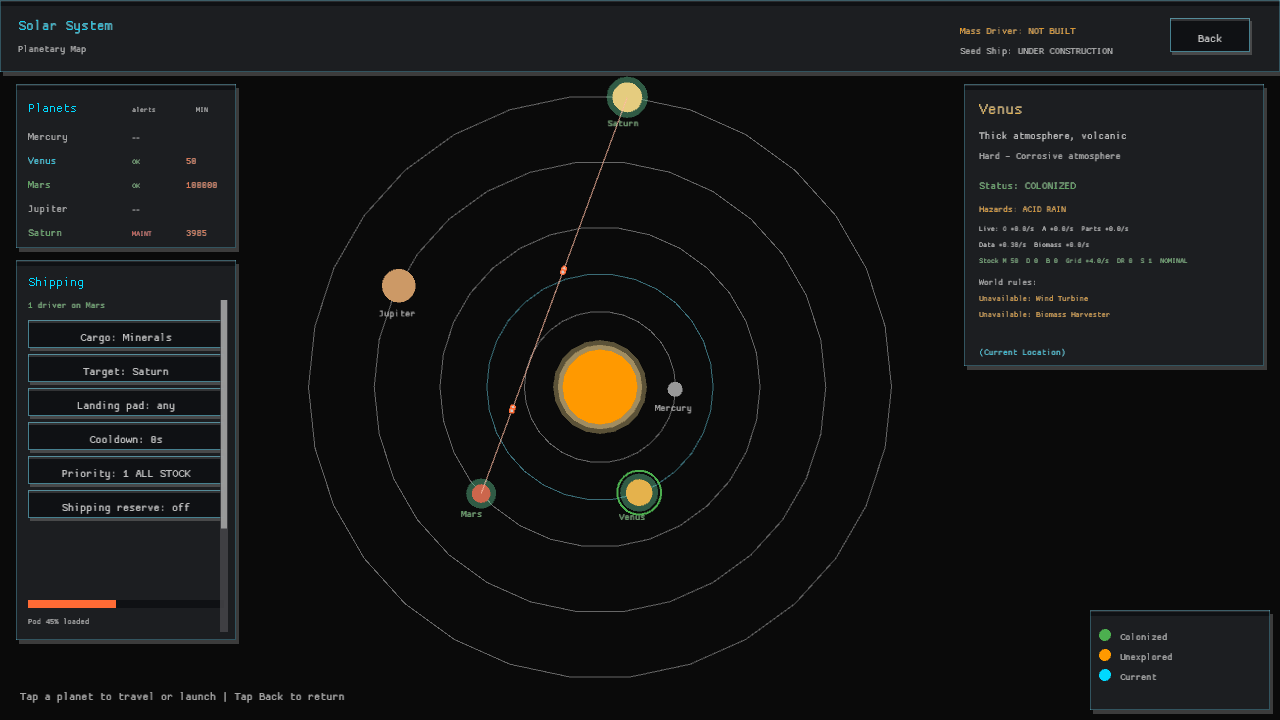
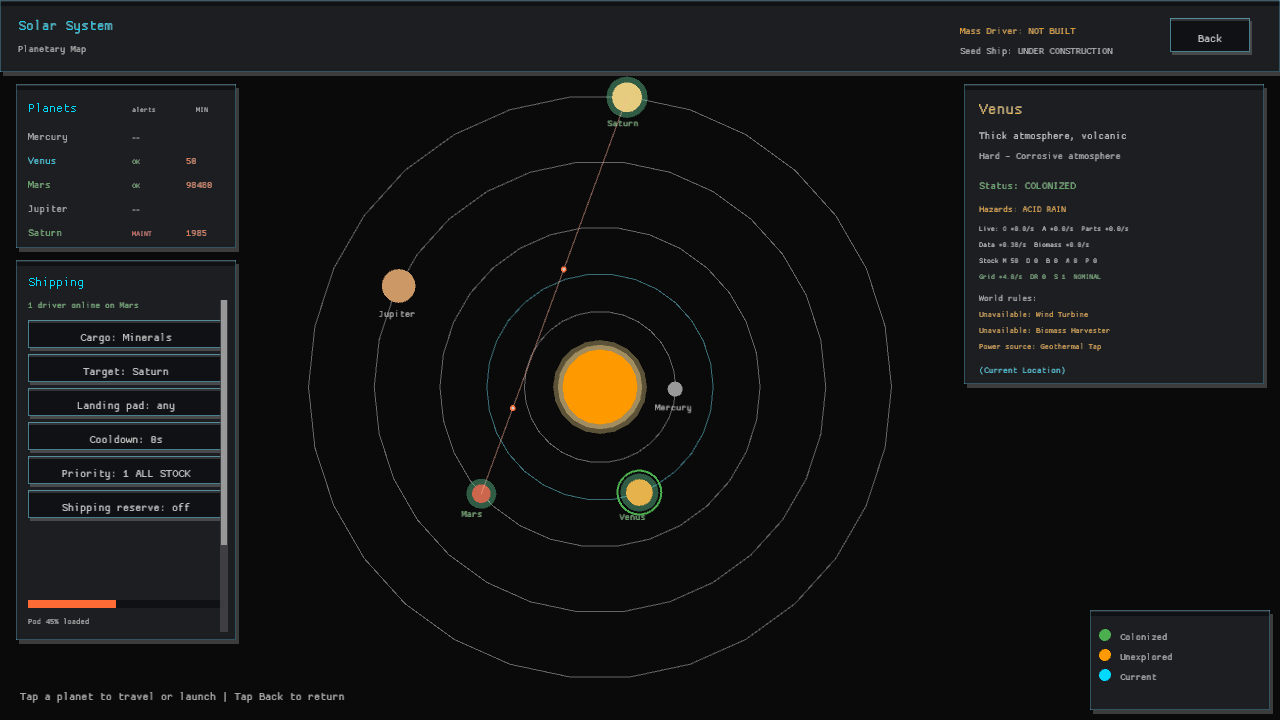
The solar map names the power a hostile world demands (dossier power route guidance, GDD 5)
The interplanetary dossier now surfaces the authored Geothermal Tap or Fusion Reactor route whenever a hostile world bans normal generators or requires a power floor. The portrait dossier grows to fit the third rule line without colliding with its travel action, and a dedicated mobile verification scene proves the layout. Regression tests, README guidance, and desktop/portrait captures keep the preflight rules visible before launch.

diff --git a/src/screens/interplanetary_view/world_dossier.rs b/src/screens/interplanetary_view/world_dossier.rs
@@ -138,6 +138,7 @@ pub(super) fn hazard_color(planet: &crate::data::PlanetDef) -> Color {
 pub(super) fn world_rule_lines(data: &crate::data::GameData, index: usize) -> Vec<String> {
     let planet = &data.planets[index];
     let constraints = &planet.constraints;
+    let power_source = world_power_source(data, planet);
     let mut lines = Vec::new();
     let rule_count_without_bans = constraints.required_buildings.len()
         + constraints.required_research.len()
@@ -172,8 +173,11 @@ pub(super) fn world_rule_lines(data: &crate::data::GameData, index: usize) -> Ve
         lines.push(format!("Needs research: {}", name));
     }
     if constraints.minimum_power_generation > 0.0 {
+        let source_suffix = power_source
+            .map(|name| format!(" via {name}"))
+            .unwrap_or_default();
         lines.push(format!(
-            "Needs {:.0} power generation",
+            "Needs {:.0} power generation{source_suffix}",
             constraints.minimum_power_generation
         ));
     }
@@ -184,10 +188,48 @@ pub(super) fn world_rule_lines(data: &crate::data::GameData, index: usize) -> Ve
         ));
     }
     if lines.is_empty() {
-        lines.push("No special build rules".to_string());
+        if let Some(source) = power_source {
+            lines.push(format!("Power source: {source}"));
+        } else {
+            lines.push("No special build rules".to_string());
+        }
+    } else if constraints.minimum_power_generation <= 0.0 {
+        if let Some(source) = power_source {
+            lines.push(format!("Power source: {source}"));
+        }
     }
     lines.truncate(3);
     lines
+}
+
+fn world_power_source<'a>(
+    data: &'a crate::data::GameData,
+    planet: &crate::data::PlanetDef,
+) -> Option<&'a str> {
+    let condition = if planet.hazards.acid_rain > 0.0
+        || planet
+            .hazard_fields
+            .iter()
+            .any(|field| field.hazard == "acid")
+    {
+        Some("acid")
+    } else if planet.hazards.freeze > 0.0
+        || planet
+            .hazard_fields
+            .iter()
+            .any(|field| field.hazard == "cold")
+    {
+        Some("cold")
+    } else {
+        None
+    };
+    let condition = condition?;
+    data.buildings
+        .iter()
+        .find(|building| {
+            building.generates_power && building.planet_condition.as_deref() == Some(condition)
+        })
+        .map(|building| building.name.as_str())
 }
 
 fn building_name<'a>(data: &'a crate::data::GameData, id: &'a str) -> &'a str {

diff --git a/src/screens/interplanetary_view/tests.rs b/src/screens/interplanetary_view/tests.rs
@@ -173,5 +173,19 @@ fn dossier_rules_keep_infrastructure_requirements_with_world_bans() {
         .iter()
         .any(|line| line == "Unavailable: Wind Turbine + Biomass Harvester"));
     assert!(rules.iter().any(|line| line == "Needs Heater Node"));
-    assert!(rules.iter().any(|line| line == "Needs 10 power generation"));
+    assert!(rules
+        .iter()
+        .any(|line| line == "Needs 10 power generation via Fusion Reactor"));
+}
+
+#[test]
+fn dossier_rules_name_the_power_route_for_hostile_worlds() {
+    let data = crate::data::test_data();
+
+    assert!(world_rule_lines(data.data(), 1)
+        .iter()
+        .any(|line| line == "Power source: Geothermal Tap"));
+    assert!(world_rule_lines(data.data(), 3)
+        .iter()
+        .any(|line| line == "Power source: Fusion Reactor"));
 }

diff --git a/src/capture_scenes/scenes.rs b/src/capture_scenes/scenes.rs
@@ -750,6 +750,12 @@ impl Game {
                 self.campaign.travel_to(1);
                 self.campaign.current_mut().power_balance = -1.0;
             }
+            "mobile_interplanetary_rules" => {
+                self.stage_interplanetary_scene();
+                self.campaign.colonize(1);
+                self.campaign.travel_to(1);
+                self.interplanetary_mobile_panel = state::InterplanetaryMobilePanel::Worlds;
+            }
             _ => {
                 // Default: jump straight into gameplay on the starting planet.
                 self.phase = GamePhase::Playing;

diff --git a/src/screens/interplanetary_view/mobile.rs b/src/screens/interplanetary_view/mobile.rs
@@ -344,7 +344,7 @@ fn draw_mobile_planet_info(
     }
     draw_ui_text("World rules:", x + 15.0, next_y, 10.0, Colors::TEXT_DIM);
     let rules = world_rule_lines(view.data, index);
-    for (rule_index, rule) in rules.iter().take(2).enumerate() {
+    for (rule_index, rule) in rules.iter().take(3).enumerate() {
         draw_ui_text(
             &truncate_text_to_width(rule, text_w, 9.0),
             x + 15.0,
@@ -394,7 +394,7 @@ fn mobile_info_height(screen_h: f32, has_telemetry: bool) -> f32 {
             96.0
         }
     } else {
-        228.0
+        250.0
     }
 }
 

diff --git a/src/capture_scenes.rs b/src/capture_scenes.rs
@@ -9,7 +9,7 @@ mod fixtures;
 mod research;
 
 #[allow(dead_code)]
-pub const REQUIRED_CAPTURE_SCENES: [&str; 21] = [
+pub const REQUIRED_CAPTURE_SCENES: [&str; 22] = [
     "mainmenu",
     "research",
     "mobile_research",
@@ -31,6 +31,7 @@ pub const REQUIRED_CAPTURE_SCENES: [&str; 21] = [
     "mobile_offline",
     "geothermal",
     "fusion",
+    "mobile_interplanetary_rules",
 ];
 
 mod scenes;

diff --git a/src/capture_scenes/tests.rs b/src/capture_scenes/tests.rs
@@ -25,7 +25,8 @@ fn required_capture_scenes_are_registered() {
             "offline",
             "mobile_offline",
             "geothermal",
-            "fusion"
+            "fusion",
+            "mobile_interplanetary_rules"
         ]
     );
 }

diff --git a/src/screens/interplanetary_view/mobile/tests.rs b/src/screens/interplanetary_view/mobile/tests.rs
@@ -12,5 +12,5 @@ fn short_phone_dossier_stays_above_the_footer() {
 
 #[test]
 fn regular_phone_dossier_keeps_the_full_world_summary() {
-    assert_eq!(mobile_info_height(640.0, true), 228.0);
+    assert_eq!(mobile_info_height(640.0, true), 250.0);
 }

diff --git a/README.md b/README.md
@@ -24,7 +24,8 @@ The swarm is powerful, but every expansion changes the terrain, stresses the gri
   plus their live generation/harvest rates, so a world can be managed without
   first travelling.
 - The Solar System dossier also previews each world's construction bans and
-  infrastructure requirements before the Seed Ship leaves.
+  infrastructure requirements before the Seed Ship leaves, including the
+  authored Geothermal and Fusion power routes for hostile worlds.
 
 ## Goal
 
